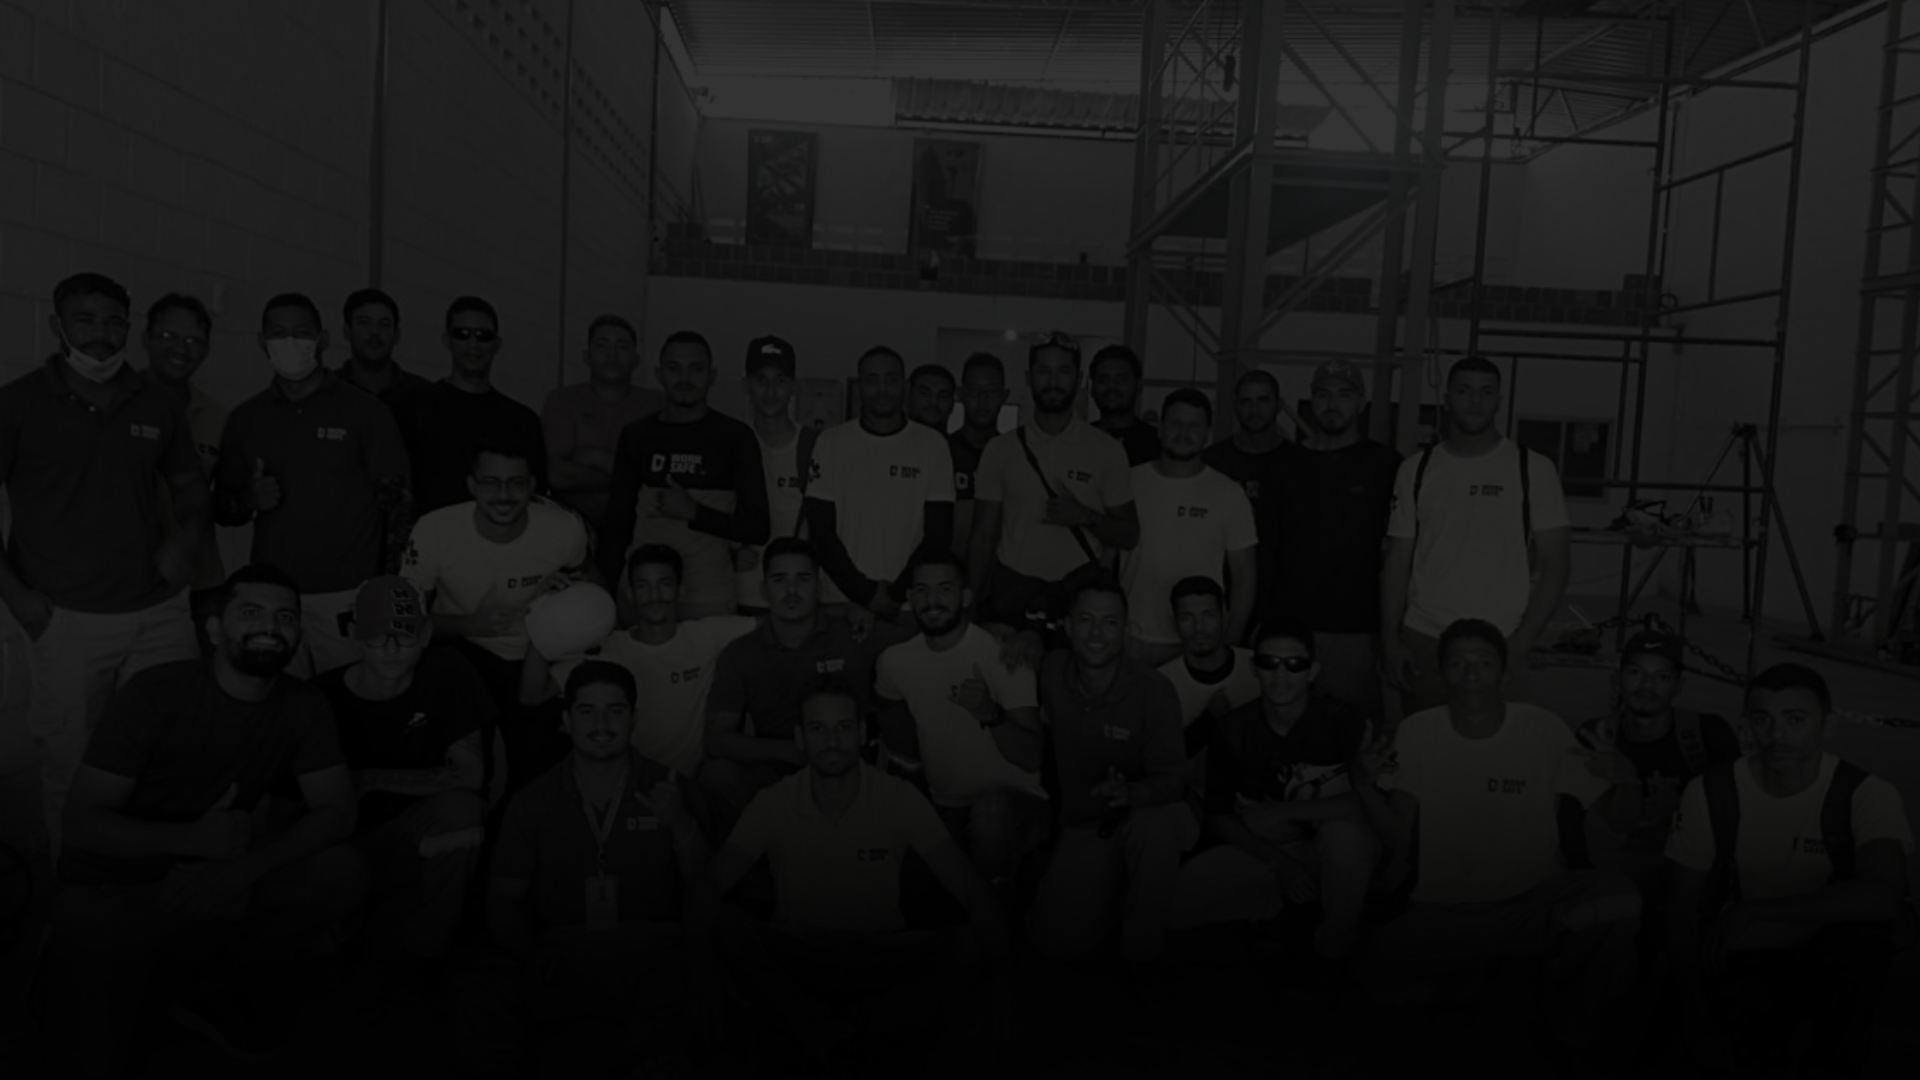
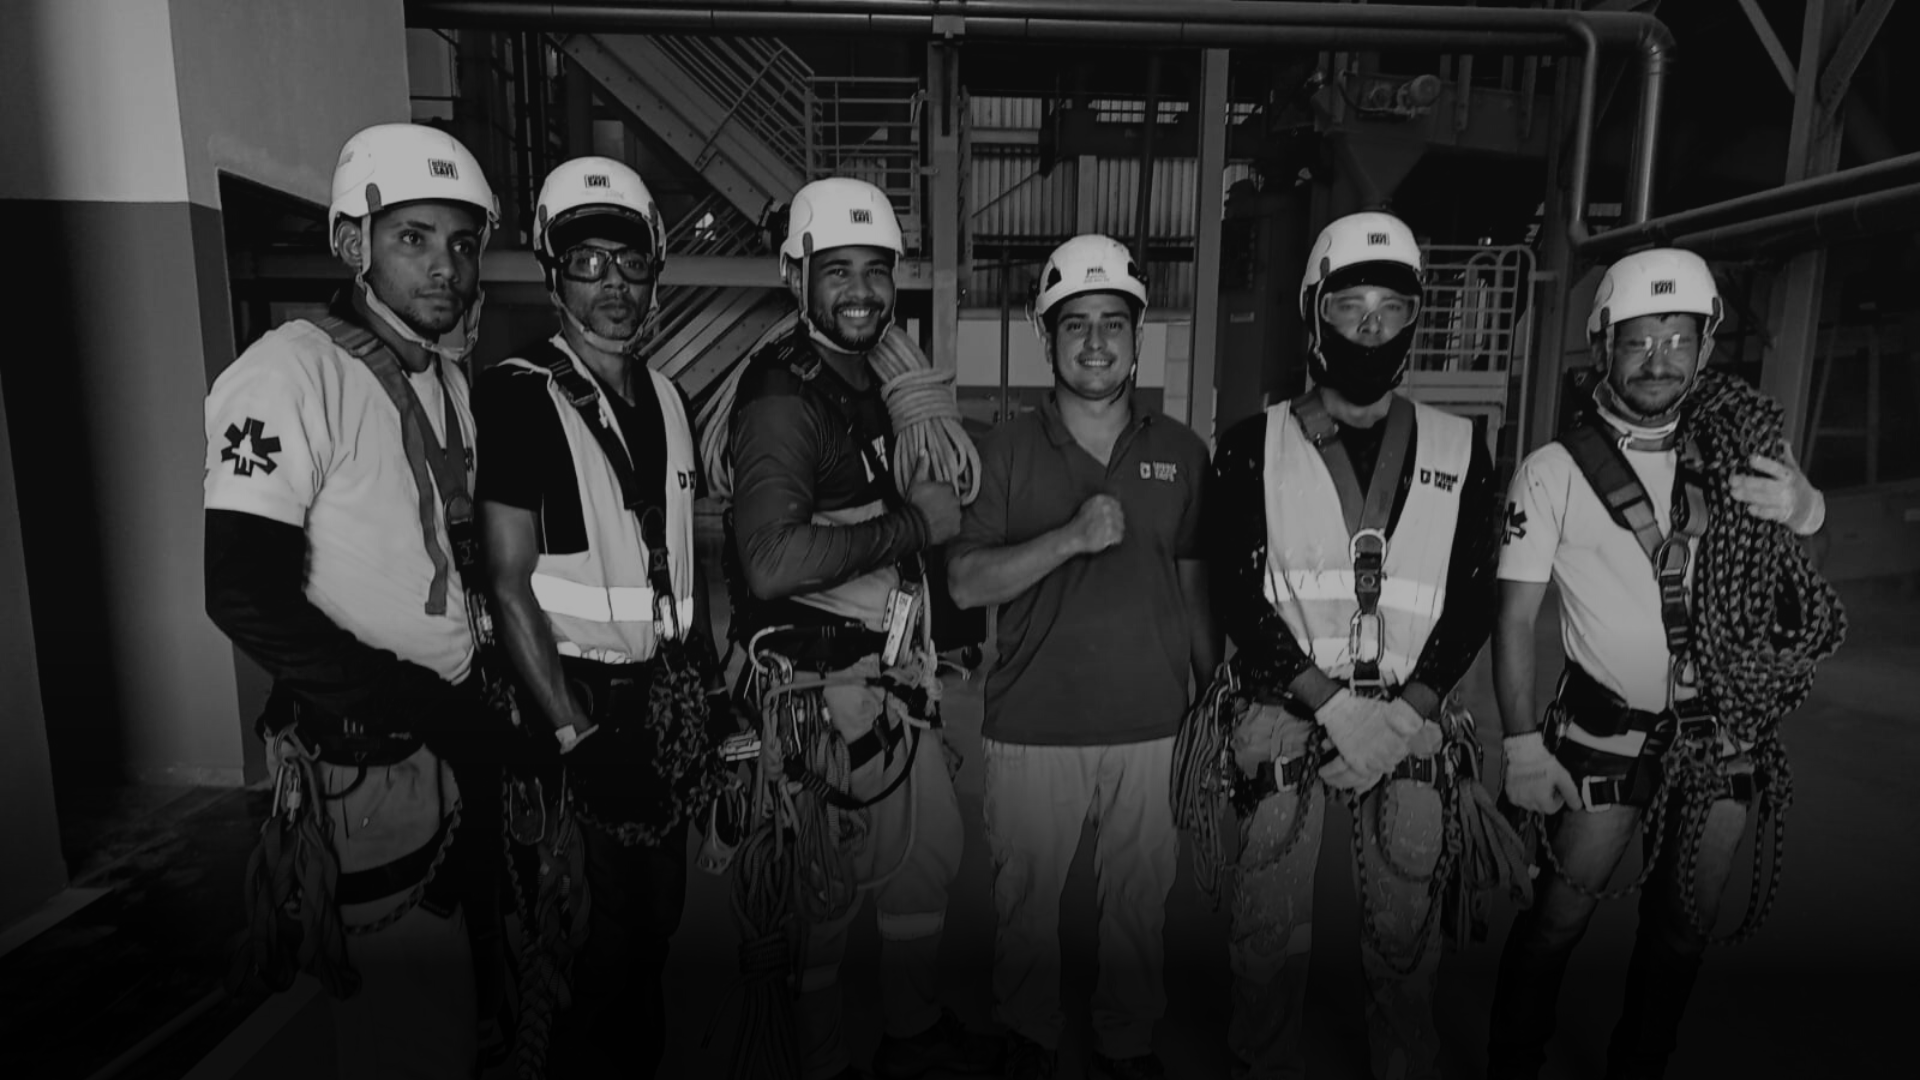
altera bg do sobre nós com foto da equipe

diff --git a/src/sections/about.sections/HeaderAbout.jsx b/src/sections/about.sections/HeaderAbout.jsx
@@ -7,6 +7,7 @@ import TopBar from '../../components/TopBar';
 import NavBar from '../../components/NavBar';
 
 import industria_img from '../../images/header.png';
+import bg_aboutUs from '../../images/bg-aboutUs.png';
 
 function HeaderAbout() {
   const [slide, setSlide] = useState('slideout');
@@ -35,11 +36,11 @@ function HeaderAbout() {
       id='header'
       className="header_container"
       style={{
-        background: `url(${industria_img})`,
-        backgroundPosition: "center",
+        background: `url(${bg_aboutUs})`,
+        backgroundPosition: "top",
         backgroundSize: "cover",
         backgroundRepeat: "no-repeat",
-        height: "70vh"
+        height: "60vh"
       }}
     >
       <TopBar/>
